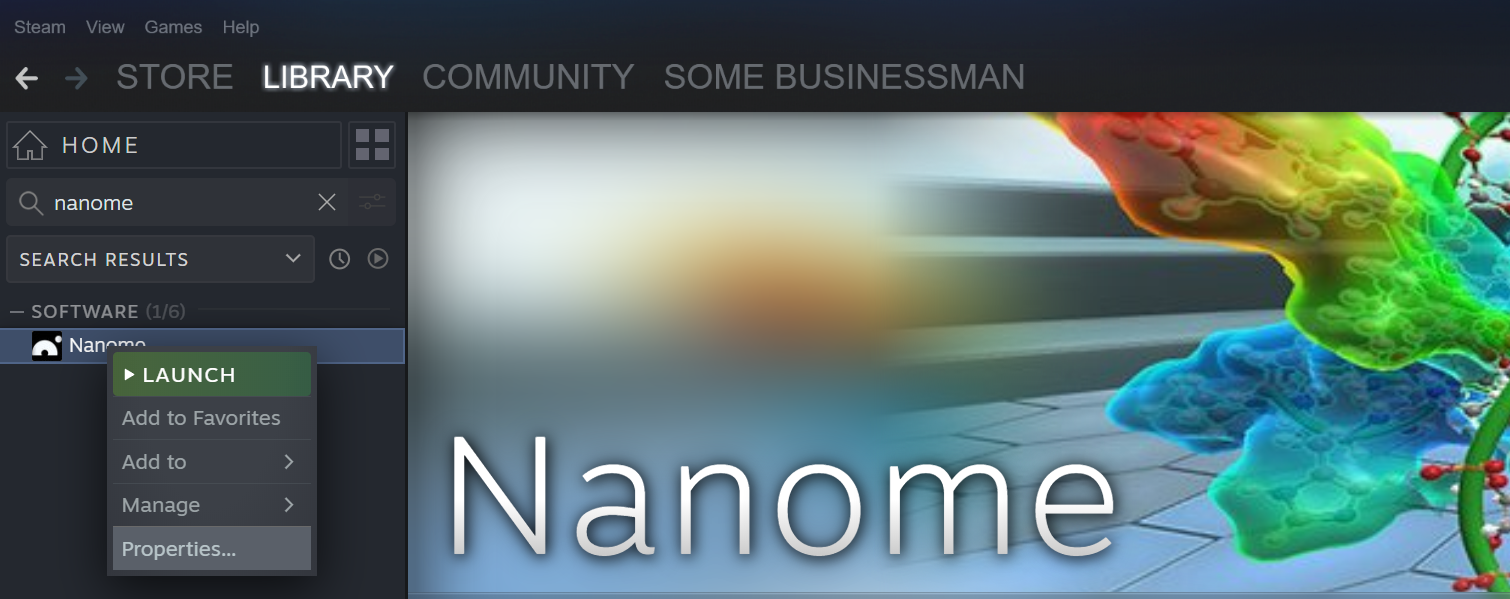
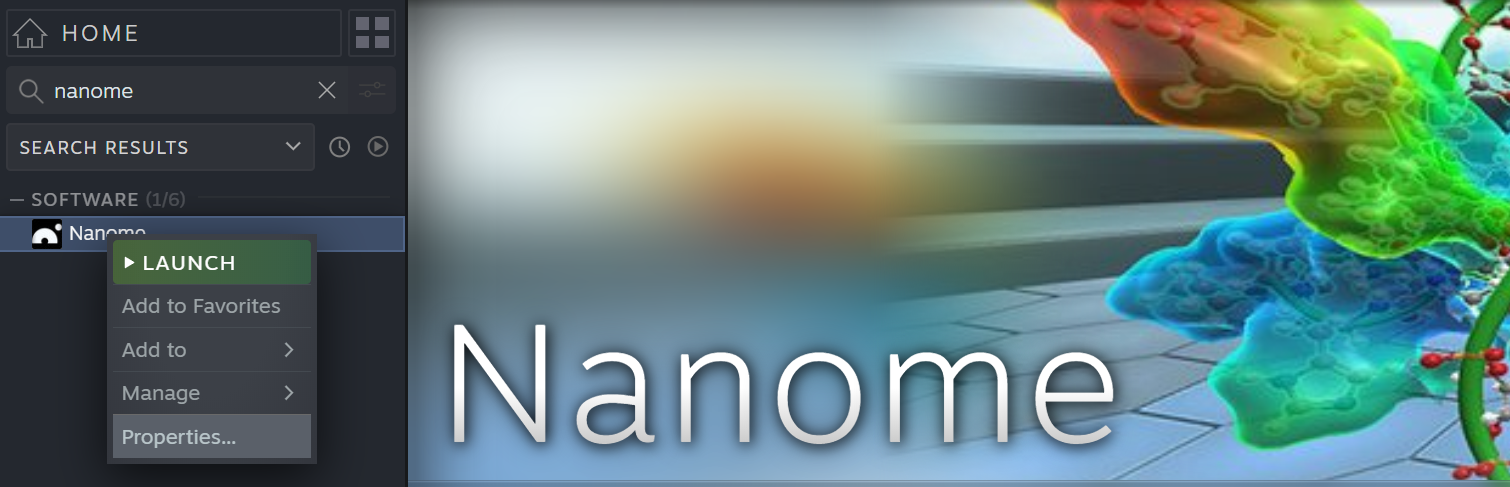
Show only demo names and the right state in screenshots, and the controller in dark mode
- Workspaces tab > Projects: the 6 projects under demo-user's Project now
  have demo names, redrawn in the app's own Inter font over the same rows.
- Property columns: the picker now sits over the table at 1/1 with B96
  listed and an empty search box, built from the Ligands tab capture of the
  same session. The picker moves 8 px left with its button, so the 5 legend
  areas move with it.
- Multi-user scene indicators: the header shows the shared (person) icon
  instead of the private lock, drawn from the app's icon font. With Ana and
  Ben in the workspace it can't be private (LeftSidebar.cs, isPrivate needs
  the owner to be the only person with access).
- Find Nanome.exe (Steam): both Steam screenshots lose the top bar that
  showed the signed-in profile name.
- Tools Panel demo: the 20 dark renders drew the controller black on a black
  sky, so dark mode now shows the light renders, close-up included.

diff --git a/docs/.vitepress/theme/components/demos/ToolsDemo.vue b/docs/.vitepress/theme/components/demos/ToolsDemo.vue
@@ -285,7 +285,7 @@ watch(src, (s) => {
       <div class="n-tools__stage">
         <DemoStage :src="src" :next="auto.playing.value ? next : ''" :alt="alt" :playing="auto.playing.value" @toggle="auto.toggle" />
         <div class="n-tools__closeup" aria-hidden="true">
-          <div v-for="f in closeups" :key="f.src" class="n-tools__closeframe" :class="{ 'is-on': f.src === shown }">
+          <div v-for="f in closeups" :key="f.src" class="n-tools__closeframe" :class="{ 'is-on': f.src === shown, 'has-dark': !!f.dark }">
             <div class="n-tools__closeimg n-tools__closelight" :style="{ backgroundImage: f.light }" />
             <div v-if="f.dark" class="n-tools__closeimg n-tools__closedark" :style="{ backgroundImage: f.dark }" />
           </div>
@@ -436,7 +436,7 @@ watch(src, (s) => {
 }
 
 .n-tools__closeup .n-tools__closedark,
-.dark .n-tools__closeup .n-tools__closelight {
+.dark .n-tools__closeup .has-dark .n-tools__closelight {
   display: none;
 }
 

diff --git a/docs/nanome_v2/mainpanel.md b/docs/nanome_v2/mainpanel.md
@@ -320,11 +320,11 @@ While Bulk-Display is on, the table lists only ligands from entries with more th
 **Select property columns** lists every property the ligands have, including SDF data fields from the source file. Each one you pick becomes a column when you save.
 
 <UiList label="Property column picker">
-<UiItem icon="columns-3" name="Select property columns" area="18.9,9.4,7.5,6.9">Opens and closes the list.</UiItem>
-<UiItem name="Picked properties" area="20.6,17.9,30.5,10.2">Numbered in column order. Picking one again takes it out.</UiItem>
-<UiItem name="Other properties" area="20.6,28.5,30.5,63.3">In alphabetical order. Picking one adds it as the next column.</UiItem>
-<UiItem icon="x" name="Cancel" area="20.6,93.2,17.0,5.8">Closes the list and keeps the columns as they were.</UiItem>
-<UiItem icon="check" name="Save" area="38.8,93.2,14.6,5.8">Shows the picked columns in their numbered order.</UiItem>
+<UiItem icon="columns-3" name="Select property columns" area="18.3,9.4,7.5,6.9">Opens and closes the list.</UiItem>
+<UiItem name="Picked properties" area="20.0,17.9,30.5,10.2">Numbered in column order. Picking one again takes it out.</UiItem>
+<UiItem name="Other properties" area="20.0,28.5,30.5,63.3">In alphabetical order. Picking one adds it as the next column.</UiItem>
+<UiItem icon="x" name="Cancel" area="20.0,93.2,17.0,5.8">Closes the list and keeps the columns as they were.</UiItem>
+<UiItem icon="check" name="Save" area="38.2,93.2,14.6,5.8">Shows the picked columns in their numbered order.</UiItem>
 </UiList>
 
 </ShotRow>
